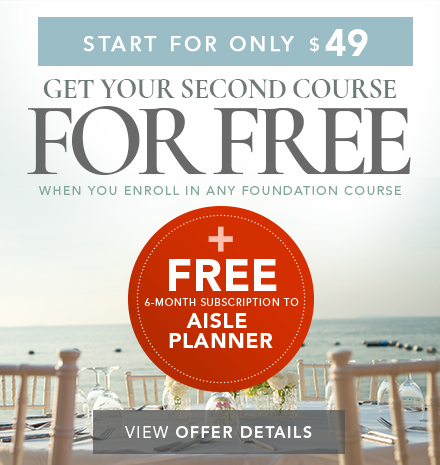
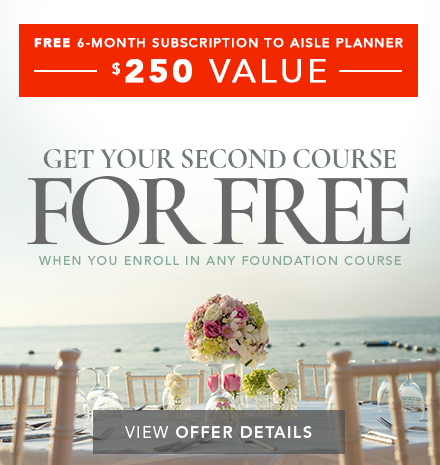
Update images for event promotion

diff --git a/src/pages/event/default/2021/05/17/index.tsx b/src/pages/event/default/2021/05/17/index.tsx
@@ -24,9 +24,9 @@ export const Promo20210517: React.FC<Props> = ({ date }) => {
 
   if (date.getTime() >= Date.UTC(2021, 4, 26, 16)) { // May 26 at 00:00
     if (desktop) {
-      image = require('./desktop-ends.jpg').default;
+      image = price?.currency.code === 'GBP' ? require('./desktop-ends-uk.jpg').default : require('./desktop-ends.jpg').default;
     } else {
-      image = require('./mobile-ends.jpg').default;
+      image = price?.currency.code === 'GBP' ? require('./mobile-ends-uk.jpg').default : require('./mobile-ends.jpg').default;
     }
   } else {
     if (desktop) {
@@ -55,7 +55,8 @@ export const Promo20210517: React.FC<Props> = ({ date }) => {
         <ModalHeader toggle={togglePopup}>Limited Time Offer</ModalHeader>
         <ModalBody className="text-center">
           <p>Enroll in one of QC&apos;s foundation courses&mdash;at our lowest deposit ever&mdash;and receive a specialty course for free (of equal or lesser value).</p>
-          <p>Plus, get a free 6-month subscription to Aisle Planner, an all-in-one event planning software.</p>
+          <p>Plus, get a FREE 6-month subscription to Aisle Planner, an all-in-one event planning software. Valued at $250, this super software will allow you to manage clients, plan projects, streamline workflows, design floor plans, and much more!</p>
+          <p>Designed for the modern event professional, this software will be invaluable for your event planning career.</p>
         </ModalBody>
       </Modal>
     </section>

diff --git a/.eslintrc.js b/.eslintrc.js
@@ -66,7 +66,7 @@ module.exports = {
     'no-useless-call': 'error',
     'no-useless-concat': 'error',
     'no-useless-return': 'error',
-    'no-void': 'error',
+    'no-void': [ 'error', { allowAsStatement: true } ],
     'no-warning-comments': 'warn',
     'prefer-promise-reject-errors': 'error',
     'prefer-regex-literals': 'error',
@@ -151,6 +151,7 @@ module.exports = {
     '@typescript-eslint/member-delimiter-style': 'error',
     '@typescript-eslint/member-ordering': 'error',
     '@typescript-eslint/method-signature-style': 'error',
+    '@typescript-eslint/no-floating-promises': 'error',
     '@typescript-eslint/no-var-requires': 'off', // needed for dynamic require
     '@typescript-eslint/prefer-for-of': 'error',
     '@typescript-eslint/prefer-includes': 'error',
@@ -243,6 +244,7 @@ module.exports = {
         'eqeqeq': 'off',
         'no-eq-null': 'off',
         '@typescript-eslint/no-magic-numbers': 'off',
+        '@typescript-eslint/no-floating-promises': 'off',
       },
     },
   ],

diff --git a/src/hooks/usePriceUpdater.ts b/src/hooks/usePriceUpdater.ts
@@ -65,7 +65,7 @@ export const usePriceUpdater = (school: School, promoCodeDefault?: string, allow
       });
     };
 
-    preFetchData();
+    void preFetchData();
 
     return () => cancelTokenSource.cancel();
   }, [ dispatch, courses, address.countryCode, address.provinceCode, meta.student, meta.studentDiscount, meta.promoCode, payment.noShipping, school, promoCodeDefault, allowOverrides, additionalOptions ]);
@@ -123,7 +123,7 @@ export const usePriceUpdater = (school: School, promoCodeDefault?: string, allow
       }
     };
 
-    fetchData();
+    void fetchData();
 
     return () => cancelTokenSource.cancel();
   }, [ dispatch, courses, address.countryCode, address.provinceCode, meta.student, meta.studentDiscount, meta.promoCode, payment.noShipping, overrides.courses, overrides.installments, overrides.value, school, promoCodeDefault, allowOverrides, additionalOptions ]);

diff --git a/src/components/Summary/PaymentModal.tsx b/src/components/Summary/PaymentModal.tsx
@@ -105,6 +105,8 @@ export const PaymentModal: React.FC<Props> = ({ company, isOpen, toggle, charge 
           instance.fields('expiryDate').on('Blur', () => setStatus(s => ({ ...s, expFilled: true })));
           instance.fields('cvv').on('Blur', () => setStatus(s => ({ ...s, cvvFilled: true })));
           setStatus(s => ({ ...s, instance }));
+        }).catch(err => {
+          console.error(err);
         });
       }
     }

diff --git a/src/hooks/useFetchImproved.ts b/src/hooks/useFetchImproved.ts
@@ -72,7 +72,7 @@ export function useFetchImproved<T>(initialUrl: string, initialData: T): ReturnT
       }
     };
 
-    fetchData();
+    void fetchData();
 
     return () => cancelTokenSource.cancel();
   }, [ url ]);

diff --git a/src/components/Summary/index.tsx b/src/components/Summary/index.tsx
@@ -69,6 +69,8 @@ export const Summary: React.FC<Props> = props => {
           toggleGB();
         }
       }
+    }).catch(err => {
+      console.error(err);
     });
   };
 
